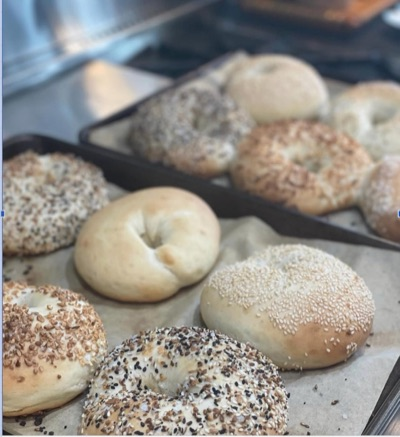
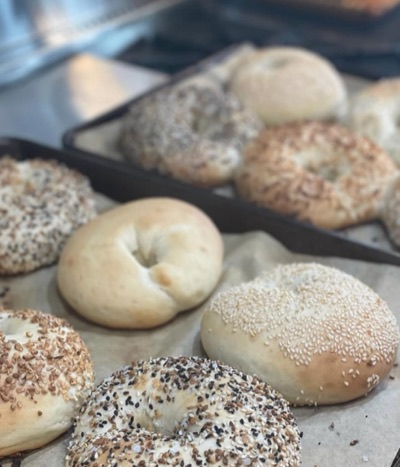
Crop Jerusalem Bagels photo to remove stray blue border marks
The source photo had faint blue tick marks near its left/right edges
(likely a leftover UI artifact from how it was embedded/exported in the
owner's spreadsheet). Center-cropped ~12% off the width and ~6% off the
height to remove them, which also zooms in slightly per the owner's
request.

diff --git a/index.html b/index.html
@@ -253,10 +253,10 @@
             
             <button type="button" class="product-card__zoom"
                     data-lightbox-src="assets/images/products/jerusalem-bagels-1100.jpg" data-lightbox-w="1100"
-                    data-lightbox-h="1203" data-lightbox-alt="Several oval Jerusalem-style bagels topped with sesame and za&#x27;atar seed blends, fresh from the oven on parchment paper."
+                    data-lightbox-h="1285" data-lightbox-alt="Several oval Jerusalem-style bagels topped with sesame and za&#x27;atar seed blends, fresh from the oven on parchment paper."
                     data-lightbox-caption="Jerusalem Bagels"
                     aria-label="View a larger photo of Jerusalem Bagels">
-              <img src="assets/images/products/jerusalem-bagels-1100.jpg" srcset="assets/images/products/jerusalem-bagels-400.jpg 400w, assets/images/products/jerusalem-bagels-600.jpg 600w, assets/images/products/jerusalem-bagels-800.jpg 800w, assets/images/products/jerusalem-bagels-1100.jpg 1100w" sizes="(min-width: 860px) 30vw, (min-width: 560px) 45vw, 92vw" width="1100" height="1203" alt="Several oval Jerusalem-style bagels topped with sesame and za&#x27;atar seed blends, fresh from the oven on parchment paper." loading="lazy" decoding="async">
+              <img src="assets/images/products/jerusalem-bagels-1100.jpg" srcset="assets/images/products/jerusalem-bagels-400.jpg 400w, assets/images/products/jerusalem-bagels-600.jpg 600w, assets/images/products/jerusalem-bagels-800.jpg 800w, assets/images/products/jerusalem-bagels-1100.jpg 1100w" sizes="(min-width: 860px) 30vw, (min-width: 560px) 45vw, 92vw" width="1100" height="1285" alt="Several oval Jerusalem-style bagels topped with sesame and za&#x27;atar seed blends, fresh from the oven on parchment paper." loading="lazy" decoding="async">
               <span class="product-card__zoom-icon" aria-hidden="true"><svg viewBox="0 0 24 24" fill="none" stroke="currentColor" stroke-width="1.8" aria-hidden="true"><circle cx="10.5" cy="10.5" r="6.5"/><path d="M15.3 15.3 21 21"/><path d="M10.5 7.5v6M7.5 10.5h6"/></svg></span>
             </button>
           </div>
